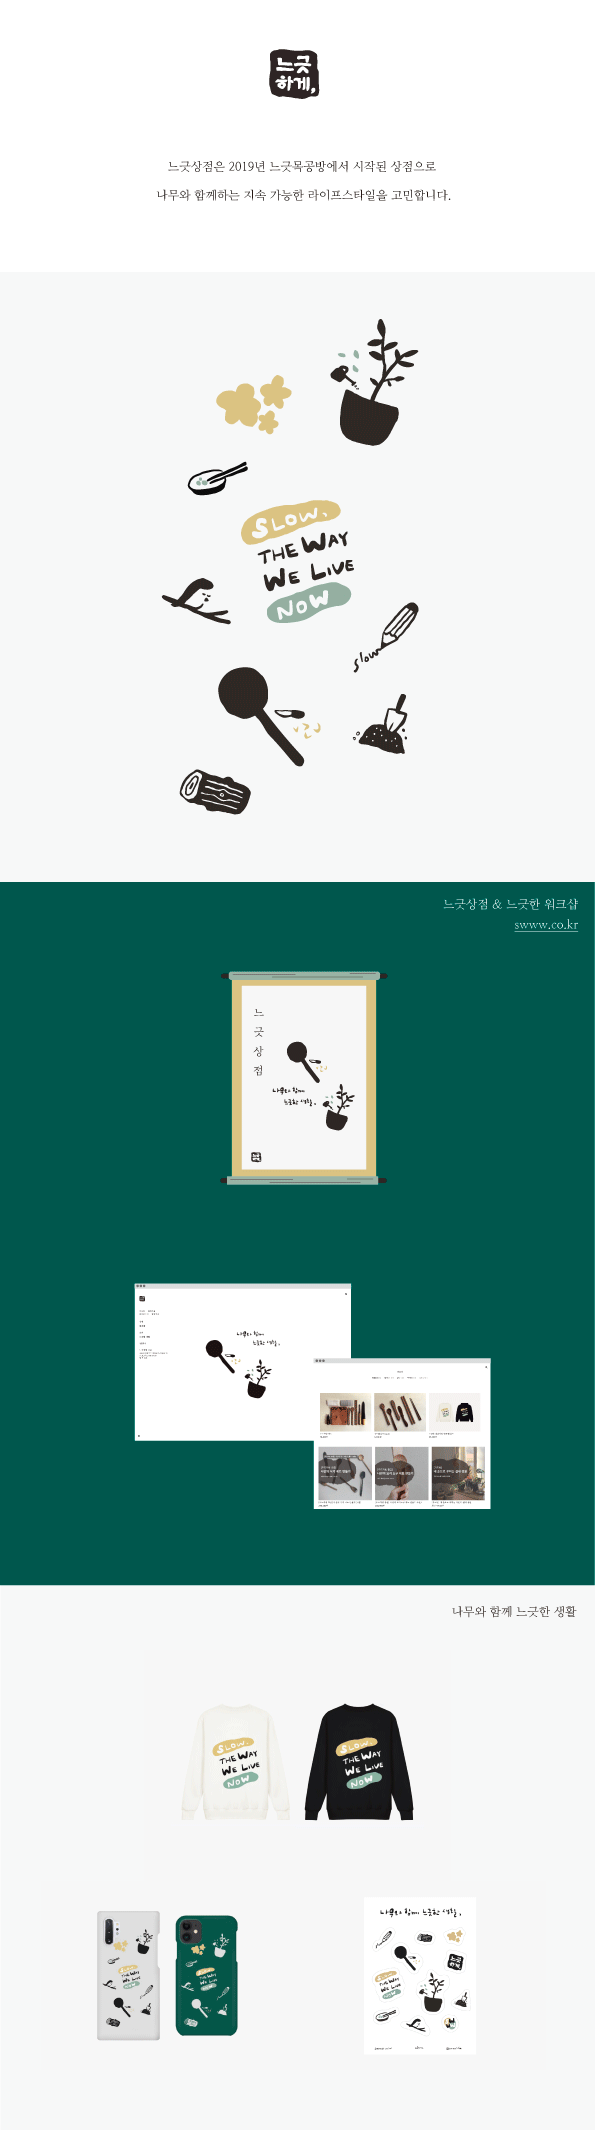
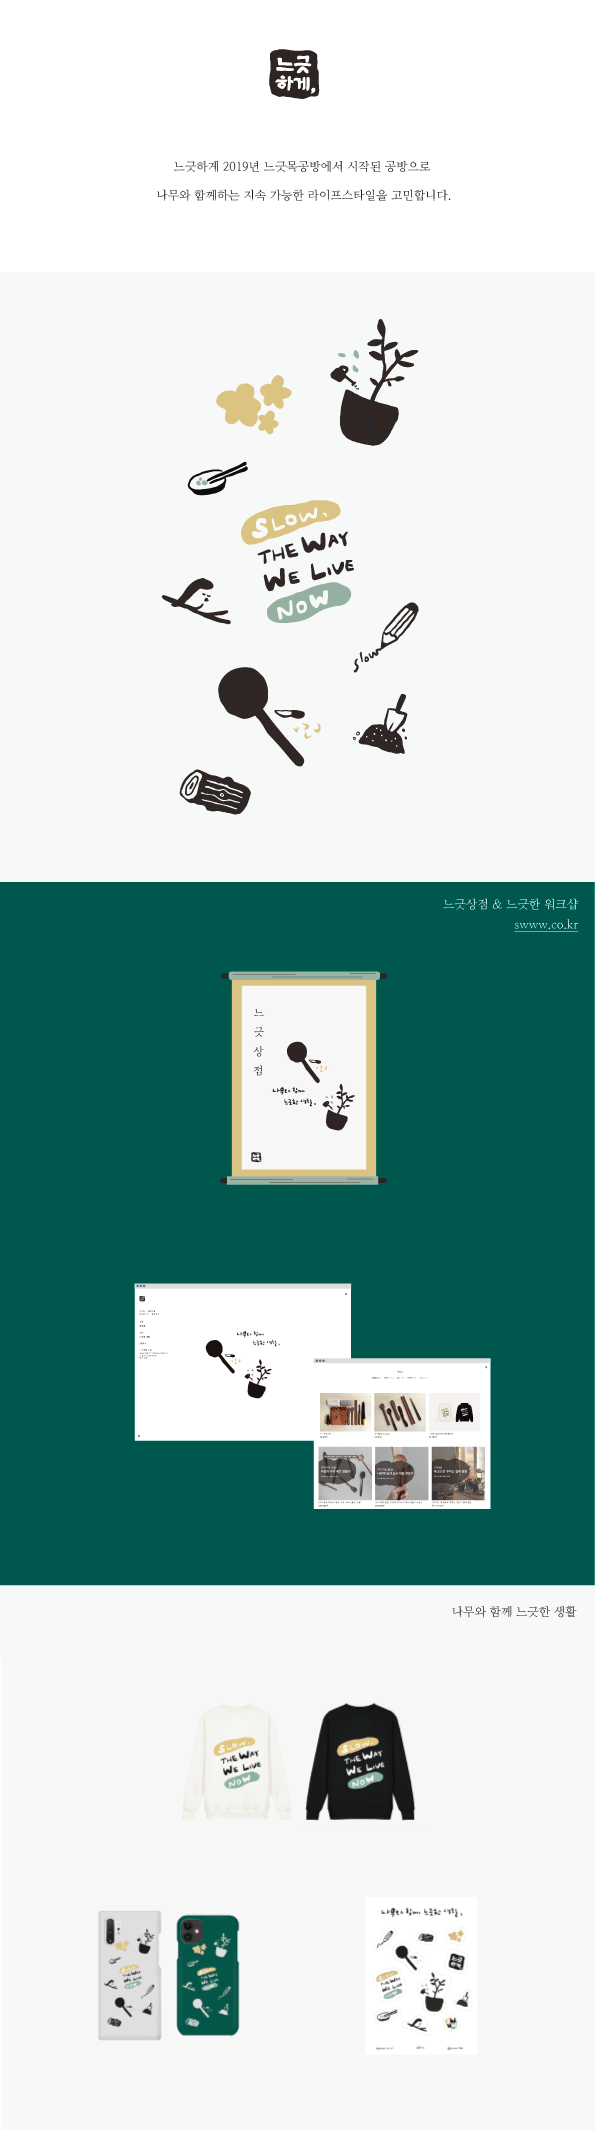
minor update
swww 내용 변경

diff --git a/index.html b/index.html
@@ -31,7 +31,7 @@
 
 	<p class="name">권 진 영<br>Jinyoung Kwon</p>
 
-	<p class="text">전하고자 하는 경험이 사람들에게 <span class="underline">쉽고 정확하게</span> 닿을 수 있도록 고민합니다. <span class="underline">마음이 편안해지는</span> 그림을 그립니다. <span class="underline">과정</span>에 있어서 <span class="underline">더불어 즐겁게</span> 작업할 수 있는 환경을 중요하게 생각합니다. <span class="underline"> 마음을 끌어당기는</span> 일을 만나면 경계를 구분하지 않고 <span class="underline">주저 없이 시도</span>합니다. 현재는 <a href="http://swww.co.kr" target="_blank" style="text-decoration: underline;"><b>느긋하게</b></a>를 운영하며, '단순하고 조화로운 생활을 위한 움직임'을 이어가고 있습니다.</p>
+	<p class="text">전하고자 하는 경험이 사람들에게 <span class="underline">쉽고 정확하게</span> 닿을 수 있도록 고민합니다. <span class="underline">마음이 편안해지는</span> 그림을 그립니다. <span class="underline">과정</span>에 있어서 <span class="underline">더불어 즐겁게</span> 작업할 수 있는 환경을 중요하게 생각합니다. <span class="underline"> 마음을 끌어당기는</span> 일을 만나면 경계를 구분하지 않고 <span class="underline">주저 없이 시도</span>합니다. 현재는 공방 <a href="http://swww.co.kr" target="_blank" style="text-decoration: underline;"><b>느긋하게</b></a>를 운영하고 있습니다.</p>
 	<p><a href="mailto:jinyoungkwwwon@gmail.com" style="text-decoration: underline;">jinyoungk<span style="font-weight:700">www</span>on@gmail.com</a></p>	
 
 

diff --git a/works/swww.html b/works/swww.html
@@ -10,7 +10,7 @@
 		<div class="modal-body">
 			<div class="row">
 				<div class="col-md-8">
-					<p>우드카빙, 가드닝 등의 나무를 매개로 다양한 작업을 선보이는 <a href="http://www.swww.co.kr/" target="_blank">'느긋상점 http://www.swww.co.kr/'</a> 의 '나무와 함께 느긋한 생활' BX, 일러스트 작업입니다.</p> 
+					<p>우드카빙, 가드닝 등의 나무를 매개로 다양한 작업을 선보이는 공방<a href="http://www.swww.co.kr/" target="_blank">'느긋하게 http://www.swww.co.kr/'</a> 의 '나무와 함께 느긋한 생활' BX, 일러스트 작업입니다.</p> 
 				</div>
 				<div class="col-md-4">
 					<h6>Role</h6>
@@ -19,7 +19,7 @@
 				</div>
 			</div>
 			<div style=" text-align:center;">
-			<img src="/img/works_swww_2.png?202004" width=80%" style="margin:0 auto; border:#f7f7f7 1px solid;">
+			<img src="/img/works_swww_2.png?202006" width=80%" style="margin:0 auto; border:#f7f7f7 1px solid;">
 			</div>
 		</div>
 
